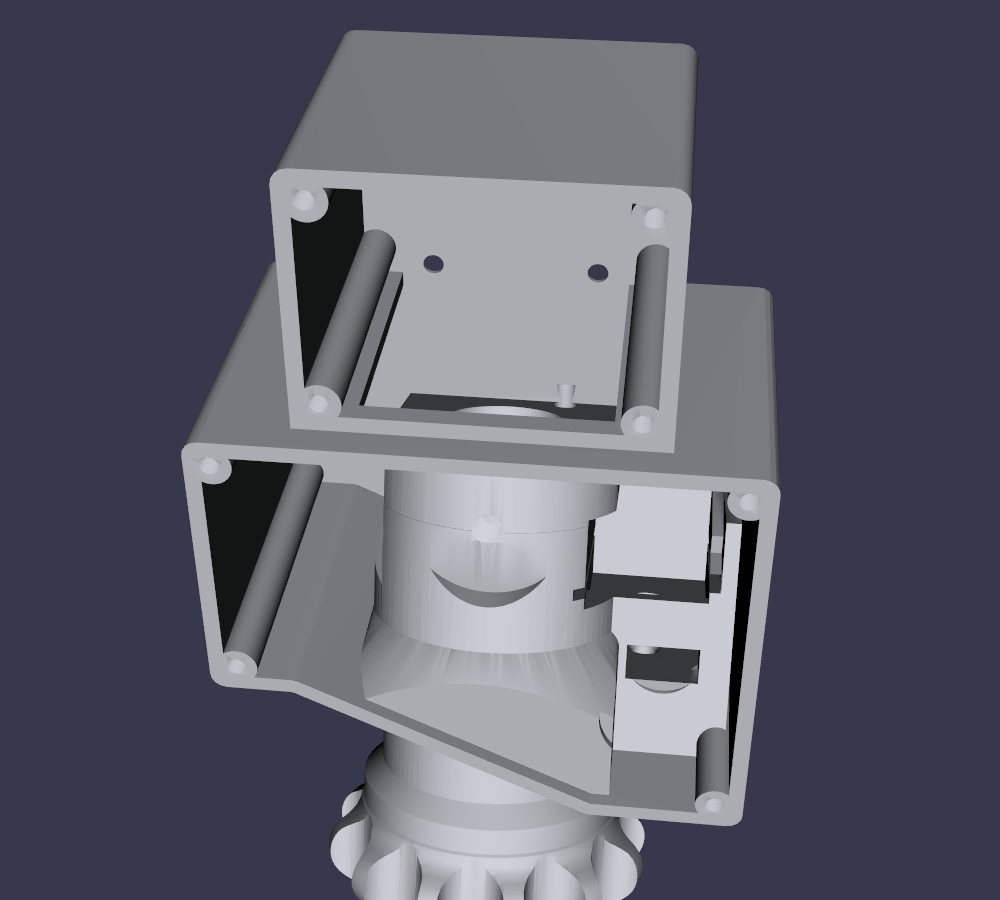
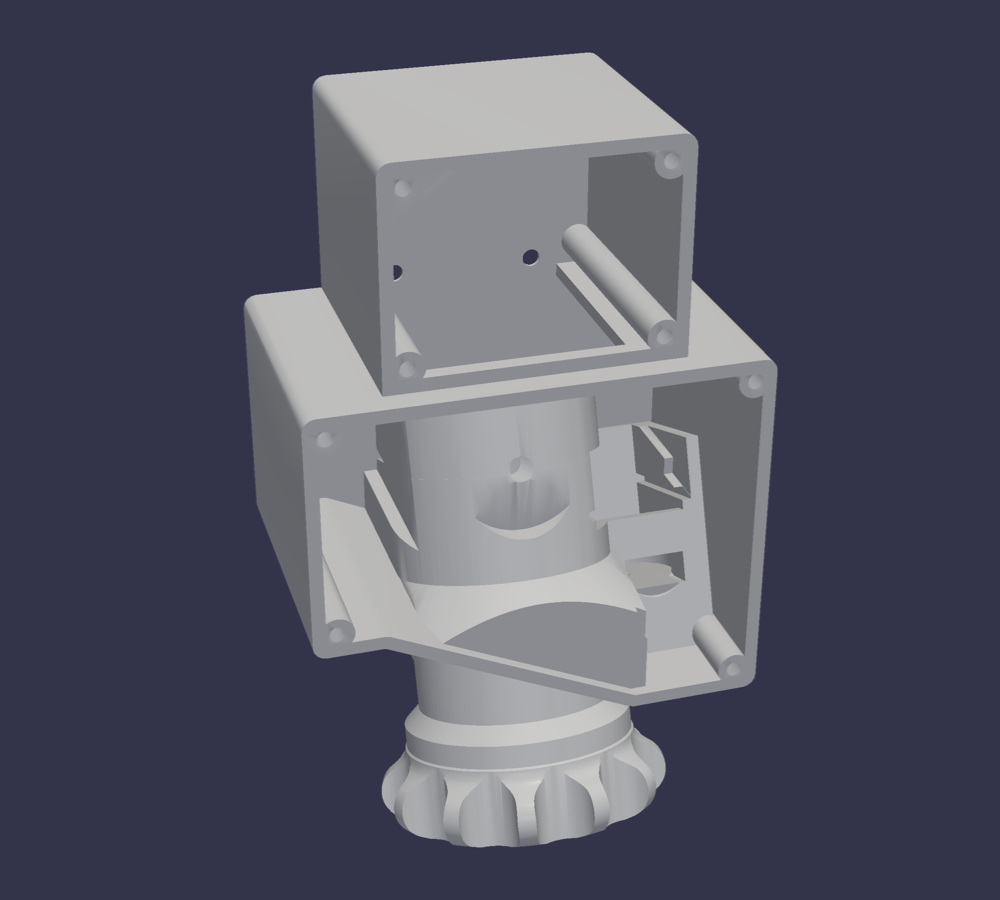
Head Rev 5: redraw Front, Inside, Body and PocketWindow from the repo
make_diagrams.py gains head_scenes(), which draws the four assembled
views on navy from the assembly GLB, in the old renders' framing. They
now show the centred upper toggles, the shouldered pinion and the panels
as they are. Every image in Head/Rev5/renders now comes from the script;
the README says so and how to put a changed part into the GLB.

diff --git a/renders/make_diagrams.py b/renders/make_diagrams.py
@@ -11,7 +11,8 @@ writes
     ../Head/Rev5/renders/HueyHeadR5_Exploded.png, HueyHeadR5_Exploded_Rear.png, HueyHeadR5_ScrewSizes.png,
     HueyHeadR5_Screws_Panels.png, HueyHeadR5_Screws_Inside.png, HueyHeadR5_Screws_Rear.png, HueyHeadR5_Screws_Collar.png,
     HueyHeadR5_Pinion.png (which way up the pinion goes, from ../Head/Rev5/stl/HueyHeadR5-Pinion.stl too),
-    HueyHeadR5_ToggleBoxes.png, HueyHeadR5_ToggleBoxes_Switches.png (the panels' backs)
+    HueyHeadR5_ToggleBoxes.png, HueyHeadR5_ToggleBoxes_Switches.png (the panels' backs),
+    HueyHeadR5_Front.png, HueyHeadR5_Inside.png, HueyHeadR5_Body.png, HueyHeadR5_PocketWindow.png (assembled, on navy)
 
 Re-run it after the GLB is regenerated. Two screws the GLB leaves out are added here: the head's pull-stop seat (M2 x 8,
 STOP_SCREW and MOUNT_FACE in huey_head_r5.py) and the hat's pivot set screw (M3 x 4, Hat/hat_r5.py).
@@ -575,6 +576,59 @@ def toggle_boxes_view(H):
         print("wrote", name)
 
 
+NAVY = (51, 52, 74)
+LIGHT = (205, 208, 216)                                 # the body, as the panels' views show it
+
+
+def scene(items, view, up, out, focus, parallel=False, zoom=1.0, size=(1000, 900)):
+    """A plain view on navy, as the README's head views are drawn: items are (mesh, colour)."""
+    p = pv.Plotter(off_screen=True, window_size=size, lighting="light kit")
+    p.set_background(NAVY)
+    for m, col in items:
+        p.add_mesh(to_pv(m), color=col, smooth_shading=True, split_sharp_edges=True, feature_angle=35, ambient=0.25,
+                   diffuse=0.8, specular=0.1)
+    pts = np.vstack([m.bounds for m in focus])
+    lo, hi = pts.min(0), pts.max(0)
+    ctr = (lo + hi) / 2
+    view = np.asarray(view, float) / np.linalg.norm(view)
+    p.camera_position = [tuple(ctr + view * 1000), tuple(ctr), tuple(up)]
+    if parallel:
+        p.enable_parallel_projection()
+    p.reset_camera(bounds=(lo[0], hi[0], lo[1], hi[1], lo[2], hi[2]))
+    p.camera.zoom(zoom)
+    p.enable_anti_aliasing("ssaa")
+    p.screenshot(out)
+    p.close()
+    print("wrote", os.path.relpath(out, HERE))
+
+
+def head_scenes(H):
+    """The README's assembled views of Rev 5: the panels straight on, inside with the panels off, the body alone, and
+    the pinion through its window behind STOP REL."""
+    n_out = -tilt_dir((0, 1, 0))                         # out of the panels' faces
+    up = tilt_dir((0, 0, 1))
+    side = tilt_dir((1, 0, 0))
+    m = lambda k: H[k].mesh
+    BLACK, WHITE, GREY = (34, 34, 36), (240, 240, 240), (92, 94, 104)
+    ORANGE, YELLOW, GREEN, BLUE, PURPLE = (200, 100, 30), (215, 190, 30), (40, 140, 60), (40, 70, 190), (170, 40, 170)
+    body = [(m("Body"), LIGHT)]
+    panels = [(m("Lower panel"), BLACK), (m("Upper panel"), BLACK), (m("Lower panel text"), WHITE),
+              (m("Upper panel text"), WHITE)]
+    front_hw = [(m("Lower toggles and STOP REL"), GREY), (m("Upper toggles"), GREY), (m("Lower switch nuts"), GREY),
+                (m("Upper switch nuts"), GREY), (m("Search hat cap"), GREY), (m("Hat bezel and rocker"), GREY)]
+    scene(body + panels + front_hw, n_out, up, os.path.join(HEAD_OUT, "HueyHeadR5_Front.png"),
+          focus=[m("Lower panel"), m("Upper panel")], parallel=True, zoom=1.0)
+    inside = [(m("Lower toggles and STOP REL"), ORANGE), (m("Upper toggles"), ORANGE), (m("Hat tact switches"), YELLOW),
+              (m("HeliSR board"), GREEN), (m("Pro Micro"), BLUE), (m("AS5600 module"), PURPLE),
+              (m("AS5600 chip"), PURPLE)]
+    scene(body + inside, n_out + 0.35 * side + 0.3 * up, up, os.path.join(HEAD_OUT, "HueyHeadR5_Inside.png"),
+          focus=[m("Body")], zoom=1.05)
+    scene(body, n_out - 0.3 * side + 0.55 * up, up, os.path.join(HEAD_OUT, "HueyHeadR5_Body.png"),
+          focus=[m("Body")], zoom=1.15)
+    scene(body + [(m("Pinion"), ORANGE)], n_out, up, os.path.join(HEAD_OUT, "HueyHeadR5_PocketWindow.png"),
+          focus=[m("Body")], parallel=True, zoom=1.25)
+
+
 # ---------------------------------------------------------------------------------------------------- base view
 def base_views(src):
     B = base_items(src)
@@ -794,6 +848,7 @@ if __name__ == "__main__":
     H = head_views(src)
     pinion_view(head_items(src))                      # head_views leaves its parts exploded
     toggle_boxes_view(head_items(src))
+    head_scenes(head_items(src))
     head_chart(H)
     B = base_views(src)
     base_chart(B)

diff --git a/Head/Rev5/README.md b/Head/Rev5/README.md
@@ -190,7 +190,7 @@ python throttle_r5.py ../source/MkII-Grip-bore-relieved-25mm.stl stl
 python check_r5.py
 ```
 
-The exploded views, screw maps and the pinion diagram come from [`../../renders/make_diagrams.py`](../../renders/make_diagrams.py), which reads the collective's assembly GLB. Its pinion was swapped in from `throttle_r5.pinion()` on 2026-11-02. Re-run the script after the GLB changes. `HueyHeadR5_Front`, `_Inside`, `_Body` and `_PocketWindow` were drawn before the pinion changed, and no script for them is in the repo. The shoulder is too small to show in them.
+Every image in `renders/` comes from [`../../renders/make_diagrams.py`](../../renders/make_diagrams.py), which reads the collective's assembly GLB: the exploded views, screw maps, the pinion and toggle-box diagrams, and the assembled views on navy (`HueyHeadR5_Front`, `_Inside`, `_Body`, `_PocketWindow`, in `head_scenes()`). The GLB's pinion, panels, panel text and upper toggles were swapped in from the current scripts on 2026-11-02. When a part changes, put its new mesh into the GLB (head frame to the collective's: `TO_HEAD` in `make_diagrams.py`, inverted) and re-run the script.
 
 The outline is set by `PANEL_W`, `PANEL_HR`, `PANEL_HL` and `DIAG_U`, and the upper box by `UX0`, `UX1`, `UZ1` and `UY`, at the top of `huey_head_r5.py`. The switch positions are `GOV`, `SEARCH`, `LDG_EXT`, `STOP_REL`, `SL` and `LDG_ON`, and the labels are in `lower_labels()` and `upper_labels()`.
 
